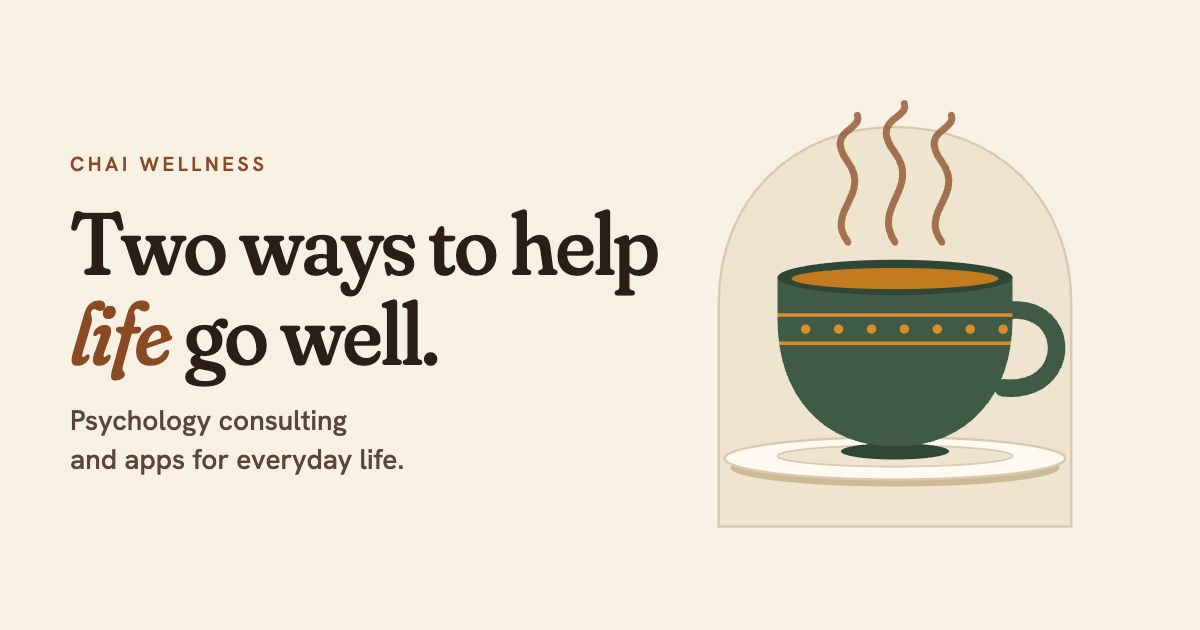
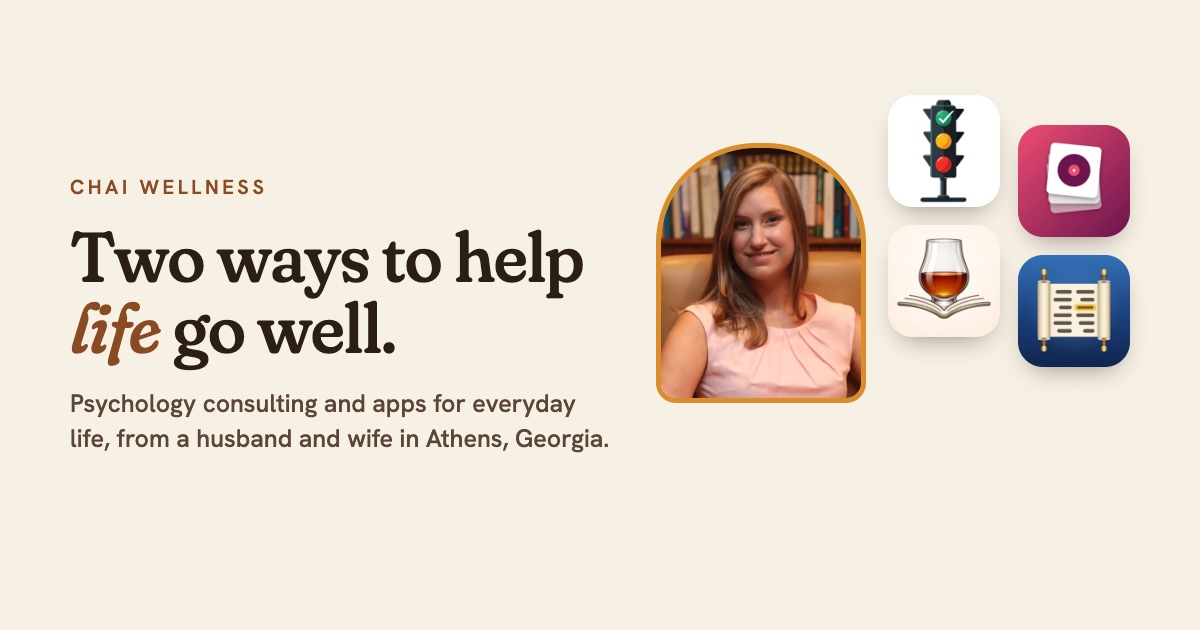
Professional hero: text-led with Emily and the apps beneath; husband-and-wife throughout

Changed region(s): [[0.0617, 0.1508, 0.9558, 0.8444]]

diff --git a/index.html b/index.html
@@ -4,9 +4,9 @@
 <meta charset="utf-8">
 <meta name="viewport" content="width=device-width, initial-scale=1">
 <title>Chai Wellness: psychology consulting and apps for everyday life</title>
-<meta name="description" content="Chai Wellness is a small company in Athens, Georgia: psychology training and consulting from Dr. Emily Mouilso, and apps for everyday life from Eric Linder.">
+<meta name="description" content="Chai Wellness is a husband-and-wife company in Athens, Georgia: psychology training and consulting from Dr. Emily Mouilso, and apps for everyday life from Eric Linder.">
 <meta property="og:title" content="Chai Wellness: psychology consulting and apps for everyday life">
-<meta property="og:description" content="Chai Wellness is a small company in Athens, Georgia: psychology training and consulting from Dr. Emily Mouilso, and apps for everyday life from Eric Linder.">
+<meta property="og:description" content="Chai Wellness is a husband-and-wife company in Athens, Georgia: psychology training and consulting from Dr. Emily Mouilso, and apps for everyday life from Eric Linder.">
 <meta property="og:type" content="website">
 <meta property="og:image" content="og-image.jpg">
 <meta name="twitter:card" content="summary_large_image">
@@ -25,45 +25,13 @@
 </div></header>
 <main id="main">
 
-<section class="hero"><div class="wrap hero-grid">
-<div>
-<p class="eyebrow rise">Athens, Georgia</p>
+<section class="hero"><div class="wrap">
+<p class="eyebrow rise">A husband-and-wife company &middot; Athens, Georgia</p>
 <h1 class="rise d1">Two ways to help <em>life</em> go well.</h1>
-<p class="lede rise d2">Chai Wellness is a small company with two halves. Dr. Emily Mouilso offers psychology training and consultation to clinicians and organizations. Eric Linder makes apps that take a little weight off everyday life.</p>
-<div class="btn-row rise d3"><a class="btn" href="consulting.html">Psychology consulting</a><a class="btn ghost" href="apps.html">See the apps</a></div>
-</div>
-<div class="cup rise d2" role="img" aria-label="A cup of chai on a saucer with steam rising, with a saffron band">
-<svg viewBox="0 0 400 400" aria-hidden="true">
-<path class="arch-bg" d="M50 380 V190 C50 100 115 40 200 40 S350 100 350 190 V380 Z"/>
-<g class="steam"><path d="M160 138 C140 112 180 98 160 70 S172 44 168 30"/><path d="M200 138 C180 108 222 92 200 62 S212 34 208 20"/><path d="M240 138 C220 112 260 98 240 70 S252 44 248 30"/></g>
-<ellipse cx="200" cy="332" rx="138" ry="10" fill="#2b1e16" opacity=".12"/>
-<ellipse class="saucer-under" cx="200" cy="330" rx="140" ry="16"/>
-<ellipse class="saucer" cx="200" cy="322" rx="145" ry="18"/>
-<ellipse class="saucer-in" cx="200" cy="320" rx="100" ry="9"/>
-<defs><clipPath id="cupclip"><path d="M100 168 H300 V204 C300 268 262 312 200 312 C138 312 100 268 100 204 Z"/></clipPath></defs>
-<path class="handle" d="M296 196 C352 190 352 268 292 262"/>
-<ellipse cx="200" cy="316" rx="46" ry="7" fill="#2f4636"/>
-<path class="cup-body" d="M100 168 H300 V204 C300 268 262 312 200 312 C138 312 100 268 100 204 Z"/>
-<g clip-path="url(#cupclip)" fill="#d98e2b" stroke="#d98e2b"><path d="M96 200 H304 M96 224 H304" stroke-width="3" fill="none"/><g stroke="none"><circle cx="124" cy="212" r="4"/><circle cx="152" cy="212" r="4"/><circle cx="180" cy="212" r="4"/><circle cx="208" cy="212" r="4"/><circle cx="236" cy="212" r="4"/><circle cx="264" cy="212" r="4"/><circle cx="292" cy="212" r="4"/></g></g>
-<ellipse class="cup-rim" cx="200" cy="168" rx="100" ry="15"/>
-<ellipse class="tea" cx="200" cy="169" rx="88" ry="9"/>
-</svg>
-<span class="eighteen">Chai means life, and 18</span>
-</div>
+<p class="lede rise d2">Chai Wellness is the work of a husband and wife. Dr. Emily Mouilso offers psychology training and consultation to clinicians and organizations. Eric Linder makes apps that take a little weight off everyday life.</p>
 </div></section>
 
-<section class="band"><div class="wrap">
-<p class="eyebrow">What's in a name</p>
-<div class="meanings">
-<div class="meaning"><span class="big he" lang="he">חי</span><h3>Life</h3><p>Chai is the Hebrew word for life. It is what a wellness company is ultimately about.</p></div>
-<div class="meaning"><span class="big">18</span><h3>A number with a blessing</h3><p>The two letters of chai add up to 18, which is why gifts and donations are so often given in multiples of it. <i>L'chaim</i> means "to life."</p></div>
-<div class="meaning"><span class="big">☕</span><h3>A cup of tea</h3><p>Spiced, slow and shared. We would like our work to feel like that: warm, unhurried and worth sitting down for.</p></div>
-</div>
-</div></section>
-
-<section><div class="wrap">
-<p class="eyebrow">The two halves</p>
-<h2>Pick a door.</h2>
+<section class="hero-doors"><div class="wrap rise d3">
 <div class="doors">
 <a class="door" href="emily.html">
 <div class="arch"><img src="img/emily-560.webp" alt="Dr. Emily Mouilso" width="150" height="188"></div>
@@ -80,6 +48,15 @@
 </div>
 </div></section>
 
+<section class="band"><div class="wrap">
+<p class="eyebrow">What's in a name</p>
+<div class="meanings">
+<div class="meaning"><span class="big he" lang="he">חי</span><h3>Life</h3><p>Chai is the Hebrew word for life. It is what a wellness company is ultimately about.</p></div>
+<div class="meaning"><span class="big">18</span><h3>A number with a blessing</h3><p>The two letters of chai add up to 18, which is why gifts and donations are so often given in multiples of it. <i>L'chaim</i> means "to life."</p></div>
+<div class="meaning"><span class="big">Tea</span><h3>A cup of tea</h3><p>Spiced, slow and shared. We would like our work to feel like that: warm, unhurried and worth sitting down for.</p></div>
+</div>
+</div></section>
+
 <section class="dark-band"><div class="wrap" style="text-align:center;max-width:760px">
 <h2>Have a question, a training need or an idea?</h2>
 <p class="lede" style="margin-inline:auto">Tell us what you are working on. We read every message ourselves.</p>
@@ -88,7 +65,7 @@
 </main>
 <footer><div class="wrap">
 <div class="foot">
-<div><b>Chai Wellness</b><p>Psychology consulting and training, and apps for everyday life. Athens, Georgia.</p></div>
+<div><b>Chai Wellness</b><p>A husband-and-wife company in Athens, Georgia: psychology consulting and training, and apps for everyday life.</p></div>
 <div><b>Explore</b><ul><li><a href="emily.html">About Emily</a></li><li><a href="consulting.html">Consulting</a></li><li><a href="apps.html">Apps</a></li><li><a href="contact.html">Contact</a></li></ul></div>
 <div><b>Right now</b><ul><li><a href="apps.html#all">Eric's apps</a></li><li><a href="consulting.html#engagements">Past workshops</a></li><li><a href="contact.html">Start a conversation</a></li></ul></div>
 </div>

diff --git a/scripts/og.html b/scripts/og.html
@@ -1,23 +1,11 @@
-<!doctype html><meta charset=utf-8><link rel=stylesheet href="https://fonts.googleapis.com/css2?family=Fraunces:ital,opsz,wght,SOFT@0,9..144,500,100;1,9..144,500,100&family=Frank+Ruhl+Libre:wght@700&family=Hanken+Grotesk:wght@500;600&display=swap"><style>body{margin:0;width:1200px;height:630px;background:#f7f0e4;font-family:'Hanken Grotesk';color:#2b1e16;display:flex;align-items:center;position:relative;overflow:hidden}
-.t{padding:0 70px;width:680px}.e{font:600 20px 'Hanken Grotesk';letter-spacing:.18em;text-transform:uppercase;color:#8a4b24;margin-bottom:22px}
-h1{font:500 88px/1.02 Fraunces;letter-spacing:-.02em;margin:0 0 22px;font-variation-settings:"SOFT" 60}h1 em{color:#8a4b24;font-style:italic}
-p{font-size:28px;line-height:1.4;color:#5a4637;margin:0}
-svg{position:absolute;right:70px;top:80px;width:470px;height:470px}
-.arch-bg{fill:#efe4d0;stroke:#d9c9ae;stroke-width:2}.cup-body{fill:#3f5b45}.cup-rim{fill:#2f4636}.tea{fill:#c47a1f}.handle{fill:none;stroke:#3f5b45;stroke-width:15;stroke-linecap:round}
-.cup-he{font:700 78px 'Frank Ruhl Libre';fill:#f6ecda}.saucer-under{fill:#cdb994}.saucer{fill:#fffaf1;stroke:#d9c9ae;stroke-width:2}.saucer-in{fill:#efe4d0;stroke:#d9c9ae;stroke-width:1.5}
-.steam path{fill:none;stroke:#8a4b24;stroke-width:6;stroke-linecap:round;opacity:.75}</style>
-<div class=t><div class=e>Chai Wellness</div><h1>Two ways to help <em>life</em> go well.</h1><p>Psychology consulting<br>and apps for everyday life.</p></div><svg viewBox="0 0 400 400" aria-hidden="true">
-<path class="arch-bg" d="M50 380 V190 C50 100 115 40 200 40 S350 100 350 190 V380 Z"/>
-<g class="steam"><path d="M160 138 C140 112 180 98 160 70 S172 44 168 30"/><path d="M200 138 C180 108 222 92 200 62 S212 34 208 20"/><path d="M240 138 C220 112 260 98 240 70 S252 44 248 30"/></g>
-<ellipse cx="200" cy="332" rx="138" ry="10" fill="#2b1e16" opacity=".12"/>
-<ellipse class="saucer-under" cx="200" cy="330" rx="140" ry="16"/>
-<ellipse class="saucer" cx="200" cy="322" rx="145" ry="18"/>
-<ellipse class="saucer-in" cx="200" cy="320" rx="100" ry="9"/>
-<defs><clipPath id="cupclip"><path d="M100 168 H300 V204 C300 268 262 312 200 312 C138 312 100 268 100 204 Z"/></clipPath></defs>
-<path class="handle" d="M296 196 C352 190 352 268 292 262"/>
-<ellipse cx="200" cy="316" rx="46" ry="7" fill="#2f4636"/>
-<path class="cup-body" d="M100 168 H300 V204 C300 268 262 312 200 312 C138 312 100 268 100 204 Z"/>
-<g clip-path="url(#cupclip)" fill="#d98e2b" stroke="#d98e2b"><path d="M96 200 H304 M96 224 H304" stroke-width="3" fill="none"/><g stroke="none"><circle cx="124" cy="212" r="4"/><circle cx="152" cy="212" r="4"/><circle cx="180" cy="212" r="4"/><circle cx="208" cy="212" r="4"/><circle cx="236" cy="212" r="4"/><circle cx="264" cy="212" r="4"/><circle cx="292" cy="212" r="4"/></g></g>
-<ellipse class="cup-rim" cx="200" cy="168" rx="100" ry="15"/>
-<ellipse class="tea" cx="200" cy="169" rx="88" ry="9"/>
-</svg>
+<!doctype html><meta charset=utf-8><link rel=stylesheet href="https://fonts.googleapis.com/css2?family=Fraunces:ital,opsz,wght,SOFT@0,9..144,500,100;1,9..144,500,100&family=Hanken+Grotesk:wght@500;600&display=swap">
+<style>body{margin:0;width:1200px;height:630px;background:#f7f0e4;font-family:'Hanken Grotesk';color:#2b1e16;display:flex;align-items:center;position:relative;overflow:hidden}
+.t{padding:0 70px;width:540px}.e{font:600 20px 'Hanken Grotesk';letter-spacing:.18em;text-transform:uppercase;color:#8a4b24;margin-bottom:22px}
+h1{font:500 70px/1.02 Fraunces;letter-spacing:-.02em;margin:0 0 22px;font-variation-settings:"SOFT" 60}h1 em{color:#8a4b24;font-style:italic}
+p{font-size:25px;line-height:1.4;color:#5a4637;margin:0}
+.r{position:absolute;right:70px;top:95px;display:flex;gap:22px;align-items:flex-start}
+.a{width:200px;height:250px;border-radius:100px 100px 20px 20px;overflow:hidden;border:5px solid #d98e2b;margin-top:48px}.a img{width:100%;height:100%;object-fit:cover;object-position:50% 20%}
+.g{display:grid;grid-template-columns:repeat(2,112px);gap:18px}.g img{width:112px;height:112px;border-radius:25px;box-shadow:0 12px 26px -12px rgba(43,30,22,.5)}.g img:nth-child(even){transform:translateY(30px)}
+.n{position:absolute;left:70px;bottom:46px;font:600 19px 'Hanken Grotesk';letter-spacing:.14em;text-transform:uppercase;color:#5a4637}</style>
+<div class=t><div class=e>Chai Wellness</div><h1>Two ways to help <em>life</em> go well.</h1><p>Psychology consulting and apps for everyday life, from a husband and wife in Athens, Georgia.</p></div>
+<div class=r><div class=a><img src="../img/emily-560.webp"></div><div class=g><img src="../img/apps/habit-traffic.webp"><img src="../img/apps/crate.webp"><img src="../img/apps/barrelbook.webp"><img src="../img/apps/torah-turn-it.webp"></div></div>

diff --git a/style.css b/style.css
@@ -93,25 +93,11 @@ section { padding: clamp(56px, 9vw, 110px) 0; }
 
 /* ---------- home hero ---------- */
 .hero { padding-top: clamp(48px, 7vw, 96px); overflow: hidden; }
-.hero-grid { display: grid; grid-template-columns: 1.15fr .85fr; gap: clamp(24px, 5vw, 72px); align-items: center; }
-.hero h1 { max-width: 11em; }
-.cup { position: relative; max-width: 440px; margin-inline: auto; width: 100%; }
-.cup svg { width: 100%; height: auto; display: block; overflow: visible; }
-.arch-bg { fill: var(--paper-2); stroke: var(--line); stroke-width: 2; }
-.cup-body { fill: #3f5b45; }
-.cup-rim { fill: #2f4636; }
-.tea { fill: #c47a1f; }
-.handle { fill: none; stroke: #3f5b45; stroke-width: 15; stroke-linecap: round; }
-.saucer-under { fill: #cdb994; }
-.saucer { fill: var(--card); stroke: var(--line); stroke-width: 2; }
-.saucer-in { fill: var(--paper-2); stroke: var(--line); stroke-width: 1.5; }
-.steam path { fill: none; stroke: var(--chai); stroke-width: 6; stroke-linecap: round; opacity: .75; stroke-dasharray: 90; animation: rise 4.5s ease-in-out infinite; }
-.steam path:nth-child(2) { animation-delay: -1.5s; }
-.steam path:nth-child(3) { animation-delay: -3s; }
-.cup .eighteen { position: absolute; right: 2%; bottom: 4%; background: var(--card); color: var(--ink); border: 1px solid var(--line); border-radius: 999px; padding: 8px 16px; font-size: .85rem; font-weight: 600; box-shadow: var(--shadow); }
-@keyframes rise { 0% { stroke-dashoffset: 90; } 50% { stroke-dashoffset: 0; } 100% { stroke-dashoffset: -90; } }
-@media (prefers-reduced-motion: reduce) { .steam path { animation: none; stroke-dasharray: none; } html { scroll-behavior: auto; } .btn { transition: none; } }
-@media (max-width: 860px) { .hero-grid { grid-template-columns: 1fr; } .cup { max-width: 300px; order: -1; } }
+.hero { padding-bottom: 8px; }
+.hero h1 { max-width: 13em; }
+.hero .lede { max-width: 40em; }
+.hero-doors { padding-top: 32px; padding-bottom: clamp(56px, 8vw, 96px); }
+@media (prefers-reduced-motion: reduce) { html { scroll-behavior: auto; } .btn { transition: none; } }
 
 /* ---------- the two doors ---------- */
 .doors { display: grid; grid-template-columns: 1fr 1fr; gap: 24px; }

diff --git a/emily.html b/emily.html
@@ -42,6 +42,7 @@
 <p>Her clinical roots are in trauma. She trained at the Ralph H. Johnson VA Medical Center and the National Crime Victims Research and Treatment Center in Charleston, then completed a fellowship at the Charlie Norwood VA Medical Center, where she treated veterans and set up a new co-located psychology clinic on a unit that had never had embedded behavioral health care.</p>
 <p>Since 2015 she has run a training clinic, which means she spends her days on the questions clinicians actually face: which treatment fits, how to supervise it, and what the right thing to do is when the answer is not obvious. When her clinic moved to telehealth in 2020 she chose the secure technology and wrote the consent and crisis procedures. She later led her program's policies on telesupervision and on artificial intelligence, and other clinics at her university have adopted the AI policy.</p>
 <p>She has served on the Georgia Psychological Association's Ethics Committee since 2021, advising colleagues on difficult dilemmas, and is an exam chair for her specialty board at ABPP and a site visitor for the American Psychological Association's accreditation body.</p>
+<p>She runs Chai Wellness with her husband, Eric Linder, who builds its apps.</p>
 </div>
 
 <h2 style="margin-top:56px;font-size:1.7rem">Focus areas</h2>
@@ -92,7 +93,7 @@
 </main>
 <footer><div class="wrap">
 <div class="foot">
-<div><b>Chai Wellness</b><p>Psychology consulting and training, and apps for everyday life. Athens, Georgia.</p></div>
+<div><b>Chai Wellness</b><p>A husband-and-wife company in Athens, Georgia: psychology consulting and training, and apps for everyday life.</p></div>
 <div><b>Explore</b><ul><li><a href="emily.html">About Emily</a></li><li><a href="consulting.html">Consulting</a></li><li><a href="apps.html">Apps</a></li><li><a href="contact.html">Contact</a></li></ul></div>
 <div><b>Right now</b><ul><li><a href="apps.html#all">Eric's apps</a></li><li><a href="consulting.html#engagements">Past workshops</a></li><li><a href="contact.html">Start a conversation</a></li></ul></div>
 </div>

diff --git a/apps.html b/apps.html
@@ -40,14 +40,14 @@
 <div>
 <p class="eyebrow">The maker</p>
 <h2 style="font-size:1.9rem">Built in Athens, Georgia</h2>
-<p class="lede" style="margin-bottom:0">Eric Linder is a rabbi and a lifelong tinkerer. He makes the apps he wants for his own days, then shares them. Questions, bug reports and ideas are welcome, and each app has its own support page and Discord community.</p>
+<p class="lede" style="margin-bottom:0">Eric Linder is a rabbi, a lifelong tinkerer, and Emily's husband and partner in Chai Wellness. He makes the apps he wants for his own days, then shares them. Questions, bug reports and ideas are welcome, and each app has its own support page and Discord community.</p>
 <div class="btn-row"><a class="btn" href="contact.html">Write to Eric</a></div>
 </div>
 </div></section>
 </main>
 <footer><div class="wrap">
 <div class="foot">
-<div><b>Chai Wellness</b><p>Psychology consulting and training, and apps for everyday life. Athens, Georgia.</p></div>
+<div><b>Chai Wellness</b><p>A husband-and-wife company in Athens, Georgia: psychology consulting and training, and apps for everyday life.</p></div>
 <div><b>Explore</b><ul><li><a href="emily.html">About Emily</a></li><li><a href="consulting.html">Consulting</a></li><li><a href="apps.html">Apps</a></li><li><a href="contact.html">Contact</a></li></ul></div>
 <div><b>Right now</b><ul><li><a href="apps.html#all">Eric's apps</a></li><li><a href="consulting.html#engagements">Past workshops</a></li><li><a href="contact.html">Start a conversation</a></li></ul></div>
 </div>

diff --git a/consulting.html b/consulting.html
@@ -72,7 +72,7 @@
 </main>
 <footer><div class="wrap">
 <div class="foot">
-<div><b>Chai Wellness</b><p>Psychology consulting and training, and apps for everyday life. Athens, Georgia.</p></div>
+<div><b>Chai Wellness</b><p>A husband-and-wife company in Athens, Georgia: psychology consulting and training, and apps for everyday life.</p></div>
 <div><b>Explore</b><ul><li><a href="emily.html">About Emily</a></li><li><a href="consulting.html">Consulting</a></li><li><a href="apps.html">Apps</a></li><li><a href="contact.html">Contact</a></li></ul></div>
 <div><b>Right now</b><ul><li><a href="apps.html#all">Eric's apps</a></li><li><a href="consulting.html#engagements">Past workshops</a></li><li><a href="contact.html">Start a conversation</a></li></ul></div>
 </div>

diff --git a/contact.html b/contact.html
@@ -56,7 +56,7 @@
 </main>
 <footer><div class="wrap">
 <div class="foot">
-<div><b>Chai Wellness</b><p>Psychology consulting and training, and apps for everyday life. Athens, Georgia.</p></div>
+<div><b>Chai Wellness</b><p>A husband-and-wife company in Athens, Georgia: psychology consulting and training, and apps for everyday life.</p></div>
 <div><b>Explore</b><ul><li><a href="emily.html">About Emily</a></li><li><a href="consulting.html">Consulting</a></li><li><a href="apps.html">Apps</a></li><li><a href="contact.html">Contact</a></li></ul></div>
 <div><b>Right now</b><ul><li><a href="apps.html#all">Eric's apps</a></li><li><a href="consulting.html#engagements">Past workshops</a></li><li><a href="contact.html">Start a conversation</a></li></ul></div>
 </div>

diff --git a/scripts/build.py b/scripts/build.py
@@ -52,7 +52,7 @@ def head(title, desc, page, og="og-image.jpg"):
 FOOT = '''</main>
 <footer><div class="wrap">
 <div class="foot">
-<div><b>Chai Wellness</b><p>Psychology consulting and training, and apps for everyday life. Athens, Georgia.</p></div>
+<div><b>Chai Wellness</b><p>A husband-and-wife company in Athens, Georgia: psychology consulting and training, and apps for everyday life.</p></div>
 <div><b>Explore</b><ul><li><a href="emily.html">About Emily</a></li><li><a href="consulting.html">Consulting</a></li><li><a href="apps.html">Apps</a></li><li><a href="contact.html">Contact</a></li></ul></div>
 <div><b>Right now</b><ul><li><a href="apps.html#all">Eric's apps</a></li><li><a href="consulting.html#engagements">Past workshops</a></li><li><a href="contact.html">Start a conversation</a></li></ul></div>
 </div>
@@ -105,46 +105,14 @@ def fan(slugs):
 # ---------------------------------------------------------------- pages
 def index():
     return head("Chai Wellness: psychology consulting and apps for everyday life",
-                "Chai Wellness is a small company in Athens, Georgia: psychology training and consulting from Dr. Emily Mouilso, and apps for everyday life from Eric Linder.", "index.html") + f'''
-<section class="hero"><div class="wrap hero-grid">
-<div>
-<p class="eyebrow rise">Athens, Georgia</p>
+                "Chai Wellness is a husband-and-wife company in Athens, Georgia: psychology training and consulting from Dr. Emily Mouilso, and apps for everyday life from Eric Linder.", "index.html") + f'''
+<section class="hero"><div class="wrap">
+<p class="eyebrow rise">A husband-and-wife company &middot; Athens, Georgia</p>
 <h1 class="rise d1">Two ways to help <em>life</em> go well.</h1>
-<p class="lede rise d2">Chai Wellness is a small company with two halves. Dr. Emily Mouilso offers psychology training and consultation to clinicians and organizations. Eric Linder makes apps that take a little weight off everyday life.</p>
-<div class="btn-row rise d3"><a class="btn" href="consulting.html">Psychology consulting</a><a class="btn ghost" href="apps.html">See the apps</a></div>
-</div>
-<div class="cup rise d2" role="img" aria-label="A cup of chai on a saucer with steam rising, with a saffron band">
-<svg viewBox="0 0 400 400" aria-hidden="true">
-<path class="arch-bg" d="M50 380 V190 C50 100 115 40 200 40 S350 100 350 190 V380 Z"/>
-<g class="steam"><path d="M160 138 C140 112 180 98 160 70 S172 44 168 30"/><path d="M200 138 C180 108 222 92 200 62 S212 34 208 20"/><path d="M240 138 C220 112 260 98 240 70 S252 44 248 30"/></g>
-<ellipse cx="200" cy="332" rx="138" ry="10" fill="#2b1e16" opacity=".12"/>
-<ellipse class="saucer-under" cx="200" cy="330" rx="140" ry="16"/>
-<ellipse class="saucer" cx="200" cy="322" rx="145" ry="18"/>
-<ellipse class="saucer-in" cx="200" cy="320" rx="100" ry="9"/>
-<defs><clipPath id="cupclip"><path d="M100 168 H300 V204 C300 268 262 312 200 312 C138 312 100 268 100 204 Z"/></clipPath></defs>
-<path class="handle" d="M296 196 C352 190 352 268 292 262"/>
-<ellipse cx="200" cy="316" rx="46" ry="7" fill="#2f4636"/>
-<path class="cup-body" d="M100 168 H300 V204 C300 268 262 312 200 312 C138 312 100 268 100 204 Z"/>
-<g clip-path="url(#cupclip)" fill="#d98e2b" stroke="#d98e2b"><path d="M96 200 H304 M96 224 H304" stroke-width="3" fill="none"/><g stroke="none"><circle cx="124" cy="212" r="4"/><circle cx="152" cy="212" r="4"/><circle cx="180" cy="212" r="4"/><circle cx="208" cy="212" r="4"/><circle cx="236" cy="212" r="4"/><circle cx="264" cy="212" r="4"/><circle cx="292" cy="212" r="4"/></g></g>
-<ellipse class="cup-rim" cx="200" cy="168" rx="100" ry="15"/>
-<ellipse class="tea" cx="200" cy="169" rx="88" ry="9"/>
-</svg>
-<span class="eighteen">Chai means life, and 18</span>
-</div>
+<p class="lede rise d2">Chai Wellness is the work of a husband and wife. Dr. Emily Mouilso offers psychology training and consultation to clinicians and organizations. Eric Linder makes apps that take a little weight off everyday life.</p>
 </div></section>
 
-<section class="band"><div class="wrap">
-<p class="eyebrow">What's in a name</p>
-<div class="meanings">
-<div class="meaning"><span class="big he" lang="he">חי</span><h3>Life</h3><p>Chai is the Hebrew word for life. It is what a wellness company is ultimately about.</p></div>
-<div class="meaning"><span class="big">18</span><h3>A number with a blessing</h3><p>The two letters of chai add up to 18, which is why gifts and donations are so often given in multiples of it. <i>L'chaim</i> means "to life."</p></div>
-<div class="meaning"><span class="big">☕</span><h3>A cup of tea</h3><p>Spiced, slow and shared. We would like our work to feel like that: warm, unhurried and worth sitting down for.</p></div>
-</div>
-</div></section>
-
-<section><div class="wrap">
-<p class="eyebrow">The two halves</p>
-<h2>Pick a door.</h2>
+<section class="hero-doors"><div class="wrap rise d3">
 <div class="doors">
 <a class="door" href="emily.html">
 <div class="arch"><img src="img/emily-560.webp" alt="Dr. Emily Mouilso" width="150" height="188"></div>
@@ -158,6 +126,15 @@ def index():
 <p>Eleven apps for iPhone, iPad, Mac and Apple Watch, from habit tracking to whiskey collections to Torah study. Small, careful and built one at a time.</p>
 <span class="go">See all the apps <span aria-hidden="true">→</span></span>
 </a>
+</div>
+</div></section>
+
+<section class="band"><div class="wrap">
+<p class="eyebrow">What's in a name</p>
+<div class="meanings">
+<div class="meaning"><span class="big he" lang="he">חי</span><h3>Life</h3><p>Chai is the Hebrew word for life. It is what a wellness company is ultimately about.</p></div>
+<div class="meaning"><span class="big">18</span><h3>A number with a blessing</h3><p>The two letters of chai add up to 18, which is why gifts and donations are so often given in multiples of it. <i>L'chaim</i> means "to life."</p></div>
+<div class="meaning"><span class="big">Tea</span><h3>A cup of tea</h3><p>Spiced, slow and shared. We would like our work to feel like that: warm, unhurried and worth sitting down for.</p></div>
 </div>
 </div></section>
 
@@ -189,6 +166,7 @@ def emily():
 <p>Her clinical roots are in trauma. She trained at the Ralph H. Johnson VA Medical Center and the National Crime Victims Research and Treatment Center in Charleston, then completed a fellowship at the Charlie Norwood VA Medical Center, where she treated veterans and set up a new co-located psychology clinic on a unit that had never had embedded behavioral health care.</p>
 <p>Since 2015 she has run a training clinic, which means she spends her days on the questions clinicians actually face: which treatment fits, how to supervise it, and what the right thing to do is when the answer is not obvious. When her clinic moved to telehealth in 2020 she chose the secure technology and wrote the consent and crisis procedures. She later led her program's policies on telesupervision and on artificial intelligence, and other clinics at her university have adopted the AI policy.</p>
 <p>She has served on the Georgia Psychological Association's Ethics Committee since 2021, advising colleagues on difficult dilemmas, and is an exam chair for her specialty board at ABPP and a site visitor for the American Psychological Association's accreditation body.</p>
+<p>She runs Chai Wellness with her husband, Eric Linder, who builds its apps.</p>
 </div>
 
 <h2 style="margin-top:56px;font-size:1.7rem">Focus areas</h2>
@@ -324,7 +302,7 @@ def apps():
 <div>
 <p class="eyebrow">The maker</p>
 <h2 style="font-size:1.9rem">Built in Athens, Georgia</h2>
-<p class="lede" style="margin-bottom:0">Eric Linder is a rabbi and a lifelong tinkerer. He makes the apps he wants for his own days, then shares them. Questions, bug reports and ideas are welcome, and each app has its own support page and Discord community.</p>
+<p class="lede" style="margin-bottom:0">Eric Linder is a rabbi, a lifelong tinkerer, and Emily's husband and partner in Chai Wellness. He makes the apps he wants for his own days, then shares them. Questions, bug reports and ideas are welcome, and each app has its own support page and Discord community.</p>
 <div class="btn-row"><a class="btn" href="contact.html">Write to Eric</a></div>
 </div>
 </div></section>
